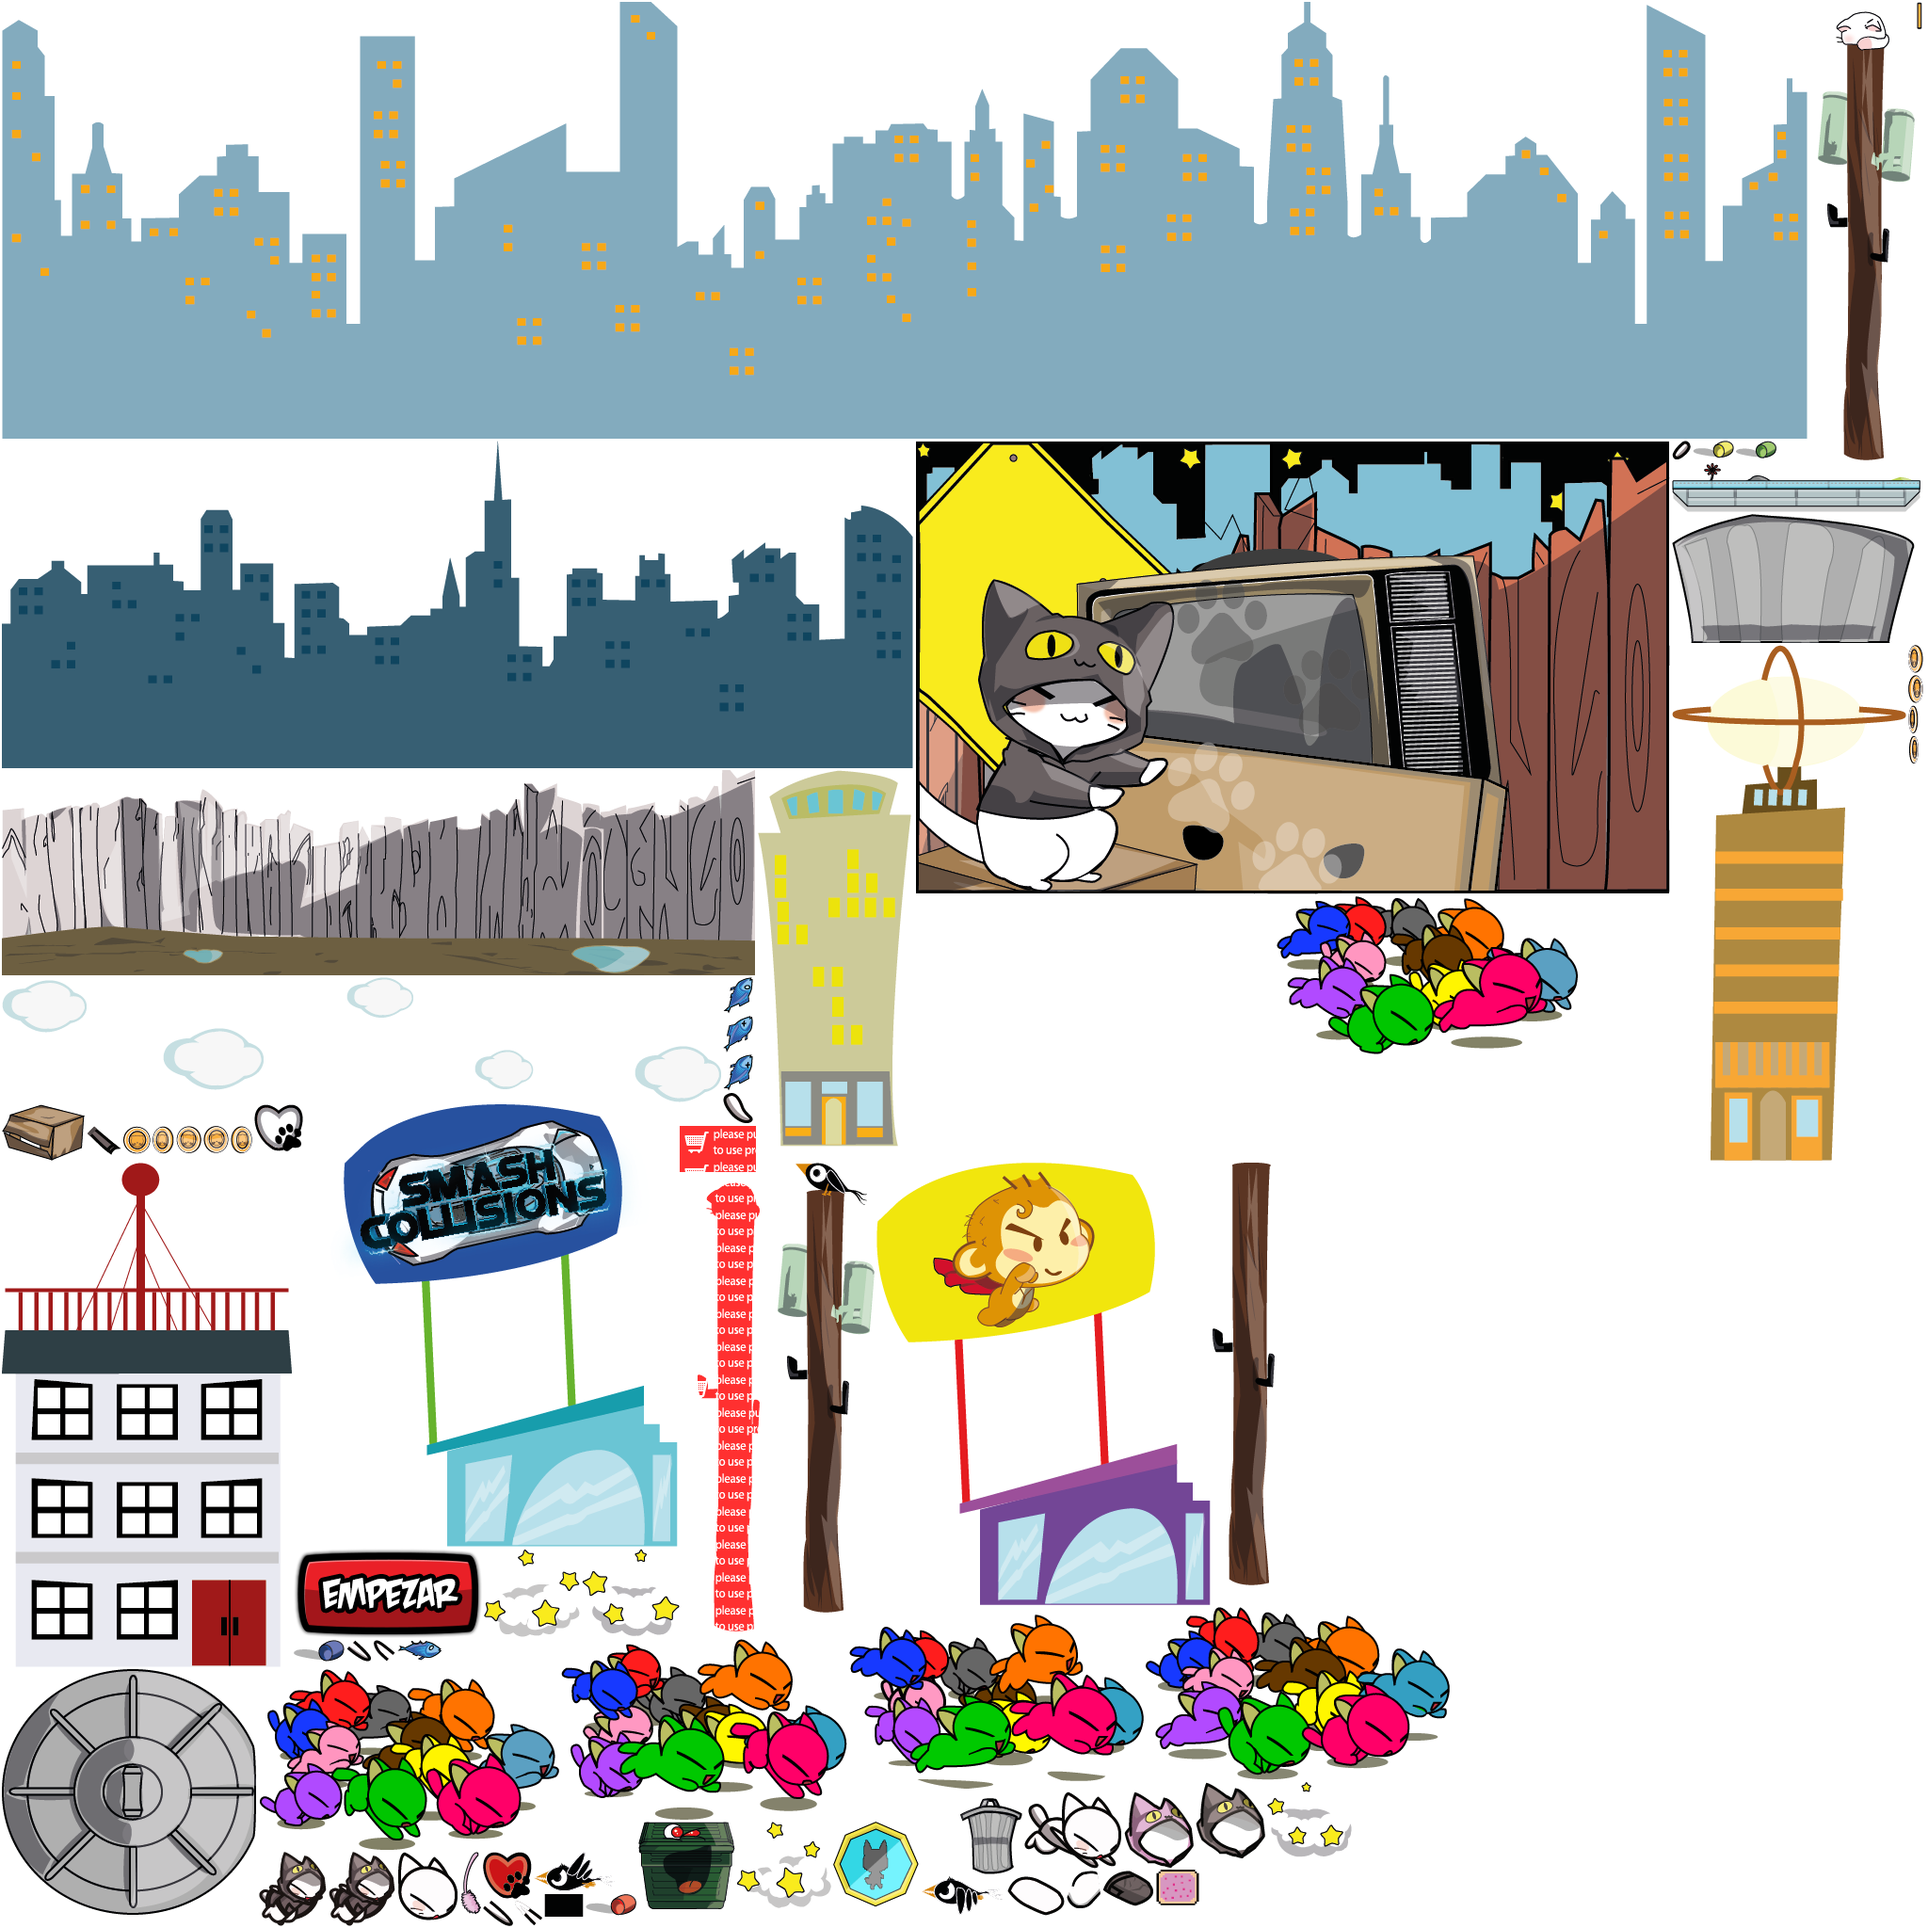
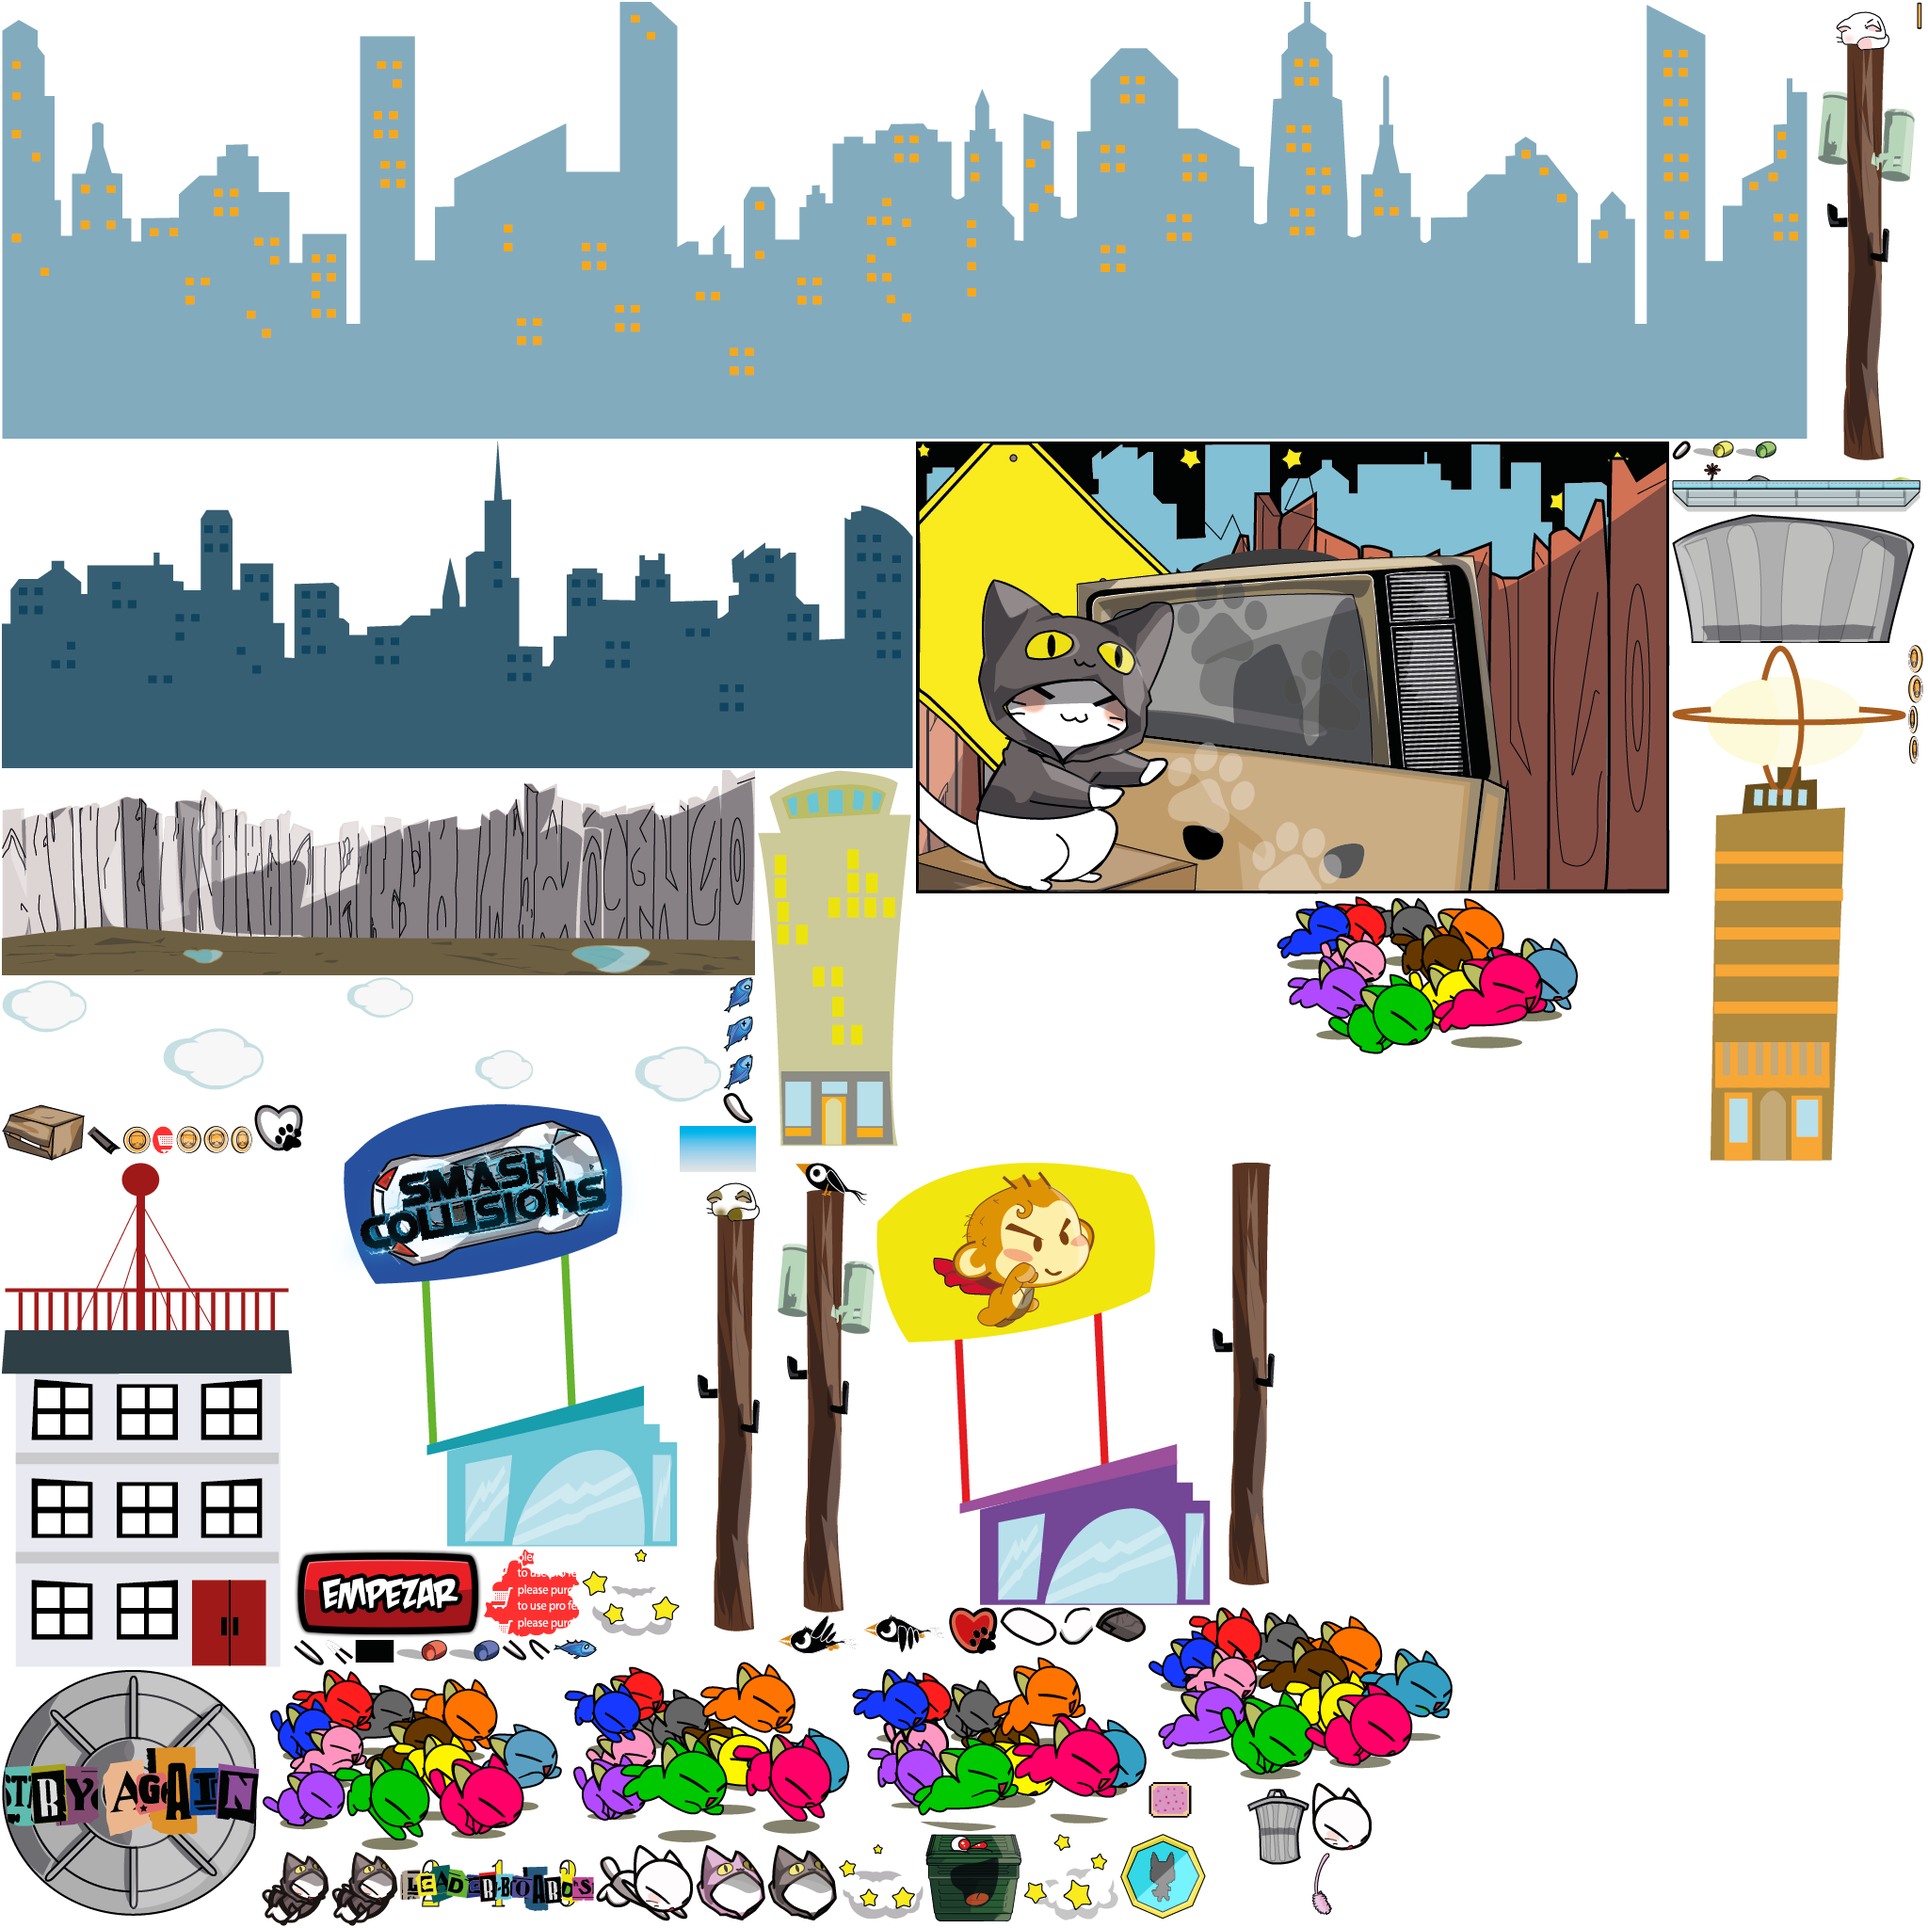
botones agregados gameover

Changed region(s): [[0.0, 0.5625, 0.75, 1.0]]

diff --git a/Shoppu/src/com/me/game/GameScreen.java b/Shoppu/src/com/me/game/GameScreen.java
@@ -56,6 +56,7 @@ public class GameScreen extends Screens {
 
 		stage.addActor(btTryAgain);
 		stage.addActor(BoteBasura);
+		stage.addActor(btLeaderBoards);
 		
 	}
 
@@ -157,6 +158,25 @@ public class GameScreen extends Screens {
 				return true;
 			}
 		});		
+		
+		btLeaderBoards = new Button(new TextureRegionDrawable(Assets.btnLeaderBoard));
+		btLeaderBoards.setSize(206, 74);
+		btLeaderBoards.setPosition( 13, 325);
+
+		btLeaderBoards.addListener(new InputListener(){
+			@Override
+			public void touchUp(InputEvent event, float x, float y,
+					int pointer, int button) {
+				btLeaderBoards.setY(btLeaderBoards.getY() + 3);
+			}
+			@Override
+			public boolean touchDown(InputEvent event, float x, float y,
+					int pointer, int button) {
+				btLeaderBoards.setY(btLeaderBoards.getY() -3);
+				Assets.oClick.play();
+				return true;
+			}
+		});
 	}
 
 	private void drawrunning(float delta) {

diff --git a/Shoppu/src/com/me/mygdxgame/Assets.java b/Shoppu/src/com/me/mygdxgame/Assets.java
@@ -28,6 +28,7 @@ public class Assets {
 	public static AtlasRegion volando;
 
 	public static AtlasRegion pelusa;
+	public static AtlasRegion btnLeaderBoard;
 	public static AtlasRegion btnEmpezar;
 	public static AtlasRegion btntyagain;
 	public static AtlasRegion fondogameover;
@@ -191,6 +192,7 @@ public class Assets {
 		kuro_run = atlas.findRegion("kurofood");
 		PisoAlcantarilla = atlas.findRegion("pisoalcantarilla");
 		btnEmpezar = atlas.findRegion("btnEmpezar");
+		btnLeaderBoard = atlas.findRegion("botonleaderboard");
 		btntyagain = atlas.findRegion("botonbote");
 		fondogameover = atlas.findRegion("fondogameover");
 		botegameover = atlas.findRegion("botebasuragameover");
